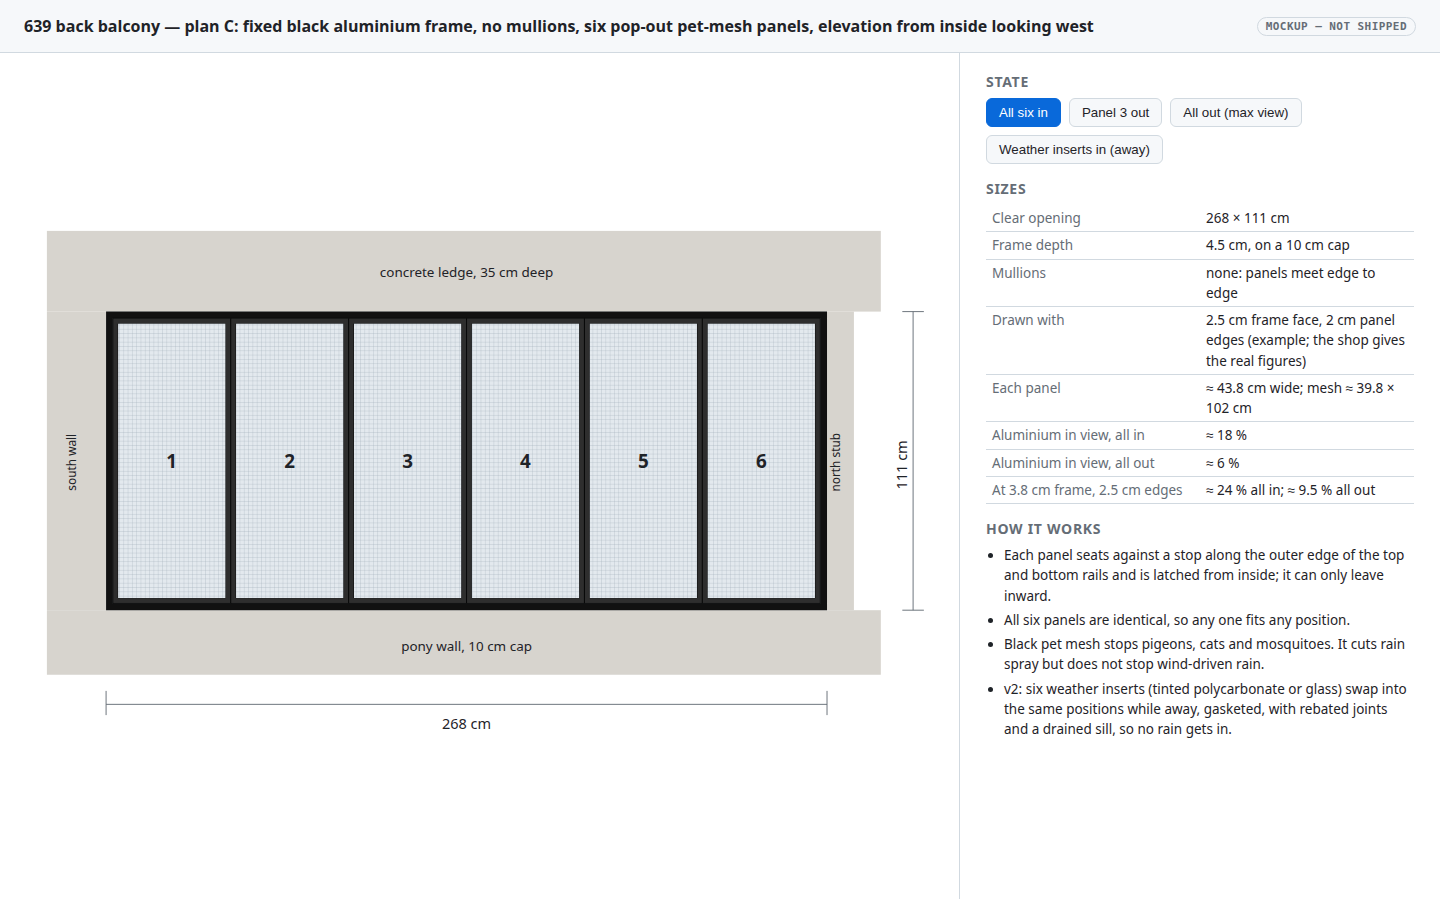
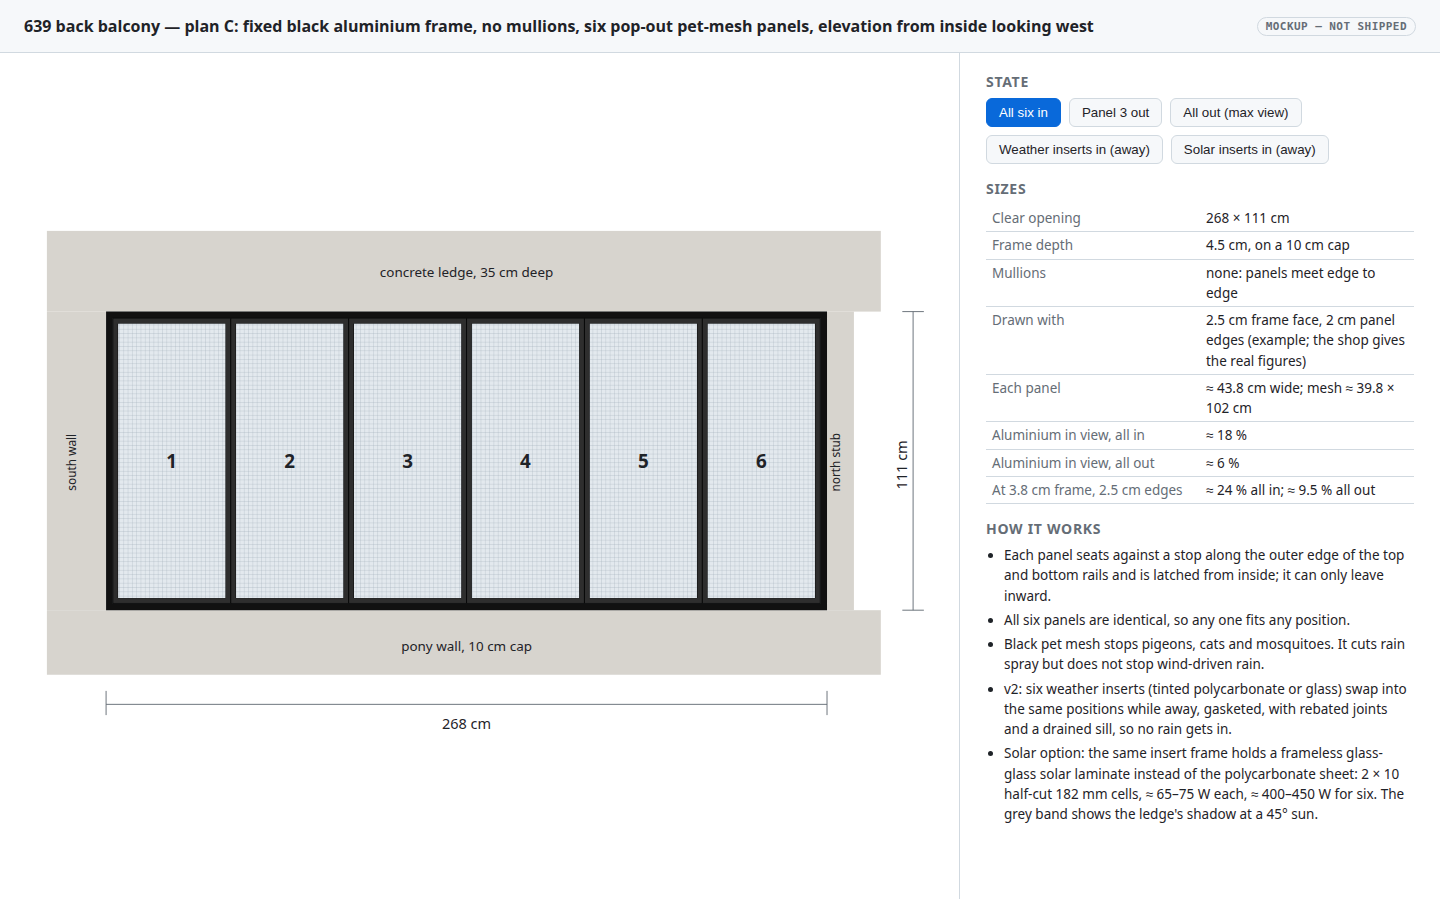
Balcony plan C: solar inserts option in the same insert frame
A glass-glass solar laminate replaces the polycarbonate sheet in the v2
insert frame, so it seals the same way with no frame change: 2 x 10
half-cut 182 mm cells, about 65-75 W each, 400-450 W for six. Adds the
fit and yield arithmetic (PVGIS vertical west, ledge shading), why no
catalogue panel or larger panel fits better, wiring, power-destination
and mixed-set questions 19-20, and a solar state in the elevation mockup.

Claude-Session: https://claude.ai/code/session_01YEenqRTjYzU5APTKovfevg

Changed region(s): [[0.6875, 0.8089, 0.9688, 0.9333], [0.8125, 0.1556, 0.9375, 0.1867]]

diff --git a/docs/plans/2026-09-30-condo-balcony-shade.md b/docs/plans/2026-09-30-condo-balcony-shade.md
@@ -16,7 +16,7 @@
 
 **Plan B requested, 2026‑10‑08 (Will):** a glazed aluminium folding window whose panes fold out of the way completely, as a fallback much closer to a traditional window installation. Specified in [A2. Plan B](#a2-plan-b-glazed-aluminium-folding-window-that-stacks-clear), with its own [mockup](2026-09-30-condo-balcony-shade/elevation-plan-b.html) and Open questions 11–14. Plan A remains the primary design.
 
-**Plan C being built, 2026‑11‑08 (Will):** a fixed black aluminium frame in the opening, matching the unit's other replacement windows, with six pet-mesh screen panels that pop out for the full view. It keeps out mosquitoes and pigeons and cuts down rain. Specified in [A3. Plan C](#a3-plan-c-fixed-screen-frame-with-six-pop-out-pet-mesh-panels), with a [mockup](2026-09-30-condo-balcony-shade/elevation-plan-c.html) and a one-page bilingual [fabricator spec sheet](../rfq/2026-11-08-639-balcony-screen-frame-spec.pdf). **v2 (2026‑11‑08)** adds weather inserts that swap in while Will is away so no rain gets in: [A3 v2](#a3-v2-weather-inserts-so-no-rain-gets-in-while-away), [v2 sheet](../rfq/2026-11-08-639-balcony-screen-frame-spec-v2.pdf).
+**Plan C being built, 2026‑11‑08 (Will):** a fixed black aluminium frame in the opening, matching the unit's other replacement windows, with six pet-mesh screen panels that pop out for the full view. It keeps out mosquitoes and pigeons and cuts down rain. Specified in [A3. Plan C](#a3-plan-c-fixed-screen-frame-with-six-pop-out-pet-mesh-panels), with a [mockup](2026-09-30-condo-balcony-shade/elevation-plan-c.html) and a one-page bilingual [fabricator spec sheet](../rfq/2026-11-08-639-balcony-screen-frame-spec.pdf). **v2 (2026‑11‑08)** adds weather inserts that swap in while Will is away so no rain gets in: [A3 v2](#a3-v2-weather-inserts-so-no-rain-gets-in-while-away), [v2 sheet](../rfq/2026-11-08-639-balcony-screen-frame-spec-v2.pdf). **Solar option (2026‑11‑09):** the same insert frame holds a glass-glass solar laminate instead of polycarbonate, ≈ 400–450 W for six, with no frame change: [A3 solar](#a3-solar-solar-inserts-instead-of-polycarbonate).
 
 ## Context
 
@@ -183,6 +183,55 @@ To take a panel out, release the bolt, lift the panel into the lift space, swing
 
 **Details** are on page 3 of the v2 sheet and in the [v2 frame-detail mockup](2026-09-30-condo-balcony-shade/frame-detail-v2.html), generated by [`build_frame_detail_v2.py`](2026-09-30-condo-balcony-shade/build_frame_detail_v2.py). Section A is the head with an insert, B the sill with an insert and its cam latch, C1 the inserts at a jamb and at a rebated joint, and C2 the unchanged screen joint.
 
+#### A3 solar: solar inserts instead of polycarbonate
+
+**Request** (Will, 2026‑11‑09): the option to fit solar panels in the frame instead of the screens or the weather inserts, using new panels made for it, or the six existing positions if that can seal the opening in place of polycarbonate.
+
+**Answer: yes, the six positions work.** A solar insert is the v2 weather insert with a **frameless glass-glass solar laminate in place of the polycarbonate sheet**. It keeps the same insert frame, EPDM gaskets, rebated joints and cam latches, so it seals as well as the polycarbonate, in the same rails, with **no change to the frame or the v2 sheet**. The insert's glazing pocket already takes up to 6.38 mm laminated glass, and a 2 mm + 2 mm glass-glass laminate is about 5 mm thick. Solar inserts can therefore be ordered later, to the sheet size the shop gives for the polycarbonate.
+
+[![Plan C with solar inserts](2026-09-30-condo-balcony-shade/elevation-plan-c-solar.png)](2026-09-30-condo-balcony-shade/elevation-plan-c.html#solar)
+
+**What fits.** Each position shows a sheet of about 39.8 × 102 cm (2.5 cm frame face, 2 cm panel edges) or 38.4 × 98 cm (3.8 cm, 2.5 cm). Two columns of today's standard 182 mm cells, cut in half (182 × 91 mm), make a block 36.4 cm wide, and ten rows make it about 93 cm tall, which fits either case:
+
+| Item | Per insert | Six inserts |
+|---|---|---|
+| Cells | 2 × 10 half-cut 182 mm cells, ≈ 36 × 93 cm | 120 |
+| Power (STC, estimate) | ≈ 65–75 W | ≈ 400–450 W |
+| Open-circuit voltage | ≈ 14 V | two strings of three, ≈ 43 V each |
+| Laminate | ≈ 5 mm glass-glass, cut to the polycarbonate sheet size | |
+| Weight with insert frame | ≈ 5 kg, like the tempered-glass option | ≈ 30 kg |
+| Yield, vertical west, Bangkok | | ≈ 1.7–2.2 kWh per kW per day by month before the ledge shade; ≈ 0.6 kWh/day for the set after it, only while fitted |
+
+**No catalogue panel fits.** The near misses: a 70 W narrow panel at 1070 × 360 × 25 mm ([Exotronic](https://mygenerator.com.au/product/exotronic-70w-narrow-fixed-monocrystalline-solar-panel)) is 5 cm too tall; a 60 W panel at 830 × 400 × 25 mm ([Couleenergy](https://couleenergy.com/?p=4070)) is too wide for the 3.8 cm frame case; "slim" 100–130 W panels ([Rich Solar MEGA 130 Slim](https://richsolar.com/products/mega-130-slim-130-watt-12-volt-solar-panel)) are 1.5–1.7 m long. Framed panels are also 25–35 mm thick against the 16 mm insert. So the laminate is a custom size: dual-glass makers build to order ([Couleenergy custom dual-glass](https://couleenergy.com/?p=3930)), and six identical pieces is a small, simple order.
+
+**Bigger new panels gain nothing.** With no mullions, the panel widths are free: three inserts of ≈ 87.7 cm or two of ≈ 131.5 cm would fit the same rails. But the power is set by the glass area, about 2.4 m² of the 2.97 m² opening, so it stays ≈ 400–450 W. Bigger inserts weigh ≈ 10–15 kg each to lift in 16 m up, need their own latch positions, and no longer swap with the screens. Six of one size is the better design.
+
+**Yield and the ledge.** [PVGIS](https://re.jrc.ec.europa.eu/pvg_tools/en/) gives 671 kWh per kW per year for a vertical west face in Bangkok (13.70 N, 100.55 E, 14 % system losses), 46 % of the 1,472 at the best tilt of 17°. The 35 cm ledge shades the top of the panels whenever the sun is high: by a sun-path calculation, about a third of the direct sun reaching the sheets falls in its shadow, and direct sun is roughly half of what a west wall receives, so expect about 15–20 % less. That holds only if the **bypass diodes split each laminate into horizontal bands**, because the shadow moves down from the top; cells strung top to bottom would lose most of their output whenever the top row is shaded. So the six give about 230 kWh a year, ≈ 0.6 kWh a day, if fitted all year.
+
+**Wiring.** An edge-mounted slim junction box on each laminate with short leads and plug connectors at the sill, on the room side, so an insert still pops out after one unplug and the set still stacks to about 10 cm. Two strings of three panels run to a small MPPT charge controller indoors.
+
+**Where the power goes** is the open question (19): the inserts are in only while Will is away, when nothing in the flat uses much. An off-grid battery could keep the router, sensors or a fan running while away, which fits the [home backup power research](/home/will/docs/plans/2026-10-07-home-backup-power.md). Feeding the condo's wiring needs a grid-tie inverter and MEA's approval, and Thailand's rules are being eased ([Tilleke & Gibbins, 2025](https://www.tilleke.com/insights/thailand-eases-rules-for-solar-rooftop-installations/15/)), but nothing found covers a small plug-in system in a condo or the juristic person's consent.
+
+```mermaid
+flowchart LR
+  P["6 solar inserts<br/>≈ 400–450 W"] -->|"plug at the sill<br/>2 strings of 3"| C["MPPT charge controller"]
+  C --> B["Battery"]
+  B --> L["Router, sensors, fan<br/>while away"]
+  P -.->|"needs MEA approval<br/>and condo consent"| I["Grid-tie inverter"]
+  I -.-> G["Condo wiring"]
+```
+
+**Mixing sets.** All three sets have the same outer size, so positions can mix, for example solar at the ends and screens in the middle. A solar or weather insert has a rebated edge and a screen does not, so the joint between two different kinds needs a detail from the shop (open question 20). Rain-tightness needs all six positions sealed (inserts or solar).
+
+```mermaid
+stateDiagram-v2
+  [*] --> Home
+  Home: Home - screens in, or out for the view
+  Away: Away - six weather or solar inserts, rain-tight
+  Home --> Away: swap all six from inside
+  Away --> Home: swap back
+```
+
 ### B. Level model (`blender_create_condo.py`)
 
 The source `.blend` is read-only, so all of this is a new section (**§ 7d**) in `wflevels/condo_639_640/blender_create_condo.py`, following the pattern of § 7c (telescoping glass doors) and gated by `CONDO_SHADE=0` to switch it off.
@@ -213,7 +262,7 @@ Rejected: a two-state visibility swap (open/closed with no travel) — cheap but
 
 [![Plan C elevation](2026-09-30-condo-balcony-shade/elevation-plan-c.png)](2026-09-30-condo-balcony-shade/elevation-plan-c.html)
 
-**Plan C elevation**: the black perimeter frame with six pet-mesh panels meeting edge to edge, drawn with a 2.5 cm frame face and 2 cm panel edges. Buttons switch between all six panels in, panel 3 out, and all out. [Open the interactive mockup](2026-09-30-condo-balcony-shade/elevation-plan-c.html).
+**Plan C elevation**: the black perimeter frame with six pet-mesh panels meeting edge to edge, drawn with a 2.5 cm frame face and 2 cm panel edges. Buttons switch between all six panels in, panel 3 out, all out, weather inserts in and solar inserts in. [Open the interactive mockup](2026-09-30-condo-balcony-shade/elevation-plan-c.html).
 
 [![Plan C v2 frame details](2026-09-30-condo-balcony-shade/frame-detail-v2.png)](2026-09-30-condo-balcony-shade/frame-detail-v2.html)
 
@@ -262,6 +311,8 @@ Answers of 2026‑09‑30 are folded in; what is left has a default that the bui
 16. **Plan C frame face, panel edge and panel size.** These are blank on the spec sheet for the shop to fill in. The view arithmetic in A3 uses 2.5 cm / 2 cm and 3.8 cm / 2.5 cm until the shop gives the real figures.
 17. ~~**Heat and damp while sealed.**~~ Resolved 2026‑11‑08: the balcony has a side window designed to let air through at all times (Will), so it is not a closed box with the inserts in. The frame and inserts need no vent of their own.
 18. **Has the shop started cutting the frame?** v2 changes the rail profiles from v1: a deeper head, a taller sill stop, a higher dam, baffled weeps, a drip edge and a flat gasket landing. Give the shop the v2 sheet before fabrication, or ask what can still change.
+19. **Where does the solar power go?** An off-grid battery for loads that run while Will is away, or a grid-tie inverter into the condo wiring, which needs MEA approval and probably the juristic person's consent. Decide before ordering solar inserts; the controller and the cable route follow from it.
+20. **Mixed sets.** Can a screen sit next to a weather or solar insert? The inserts have rebated edges and the screens do not. Ask the shop to detail that joint, or keep each set whole.
 
 ## Out of scope
 

diff --git a/docs/plans/.history/2026-09-30-condo-balcony-shade.md b/docs/plans/.history/2026-09-30-condo-balcony-shade.md
@@ -1,5 +1,6 @@
 | Date | Change |
 |------|--------|
+| [2026-11-08](https://github.com/wbniv/WorldFoundry/commit/1d7253ae) | Balcony plan C v2: side window ventilates the balcony; no vent in the frame |
 | [2026-11-08](https://github.com/wbniv/WorldFoundry/commit/d1ee0167) | Balcony plan C v2: weather inserts so no rain gets in while away |
 | [2026-11-08](https://github.com/wbniv/WorldFoundry/commit/9b7fdc33) | Balcony plan C: frame detail sections |
 | [2026-11-08](https://github.com/wbniv/WorldFoundry/commit/84f2e6ab) | Balcony plan C: no mullions; panels meet edge to edge |
@@ -26,6 +27,11 @@
 | [2026-09-30](https://github.com/wbniv/WorldFoundry/commit/ce0a2fa6) | Plan condo 639 balcony zip screen (solar-strip motor) and 7 cm floor recess |
 
 <!--history-meta v1
+1d7253ae	author	Will Norris
+1d7253ae	added	3
+1d7253ae	deleted	1
+1d7253ae	files	1
+1d7253ae	body	Resolves open question 17: the balcony's side window lets air through at\nall times, so the sealed inserts do not close it in.\n\nCo-Authored-By: Claude Opus 5.5 <noreply@anthropic.com>\nClaude-Session: https://claude.ai/code/session_01YEenqRTjYzU5APTKovfevg
 d1ee0167	author	Will Norris
 d1ee0167	added	31
 d1ee0167	deleted	3
